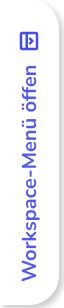
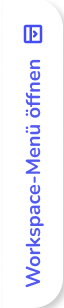
fixed workspace menu open

Changed region(s): [[0.2812, 0.0584, 0.6875, 0.9351], [0.0625, 0.0584, 1.0, 1.0], [0.875, 0.0292, 0.9062, 0.0584]]

diff --git a/src/app/main/main-content/main-content.component.ts b/src/app/main/main-content/main-content.component.ts
@@ -50,7 +50,6 @@ ngOnInit() {
     const isMobileLandscape = result.breakpoints[this.CUSTOM_BREAKPOINTS.isMobileLandscape];
     const isTabletPortrait = result.breakpoints[this.CUSTOM_BREAKPOINTS.isTabletPortrait];
     const isTabletLandscape = result.breakpoints[this.CUSTOM_BREAKPOINTS.isTabletLandscape];
-    const isWeb = result.breakpoints[this.CUSTOM_BREAKPOINTS.isWeb];
 
     if (isMobilePortrait) {
       this.toggleService.isMobile = true;

diff --git a/src/app/main/main-content/message-box/channel-message/channel-message.component.scss b/src/app/main/main-content/message-box/channel-message/channel-message.component.scss
@@ -143,6 +143,7 @@ h1 {
     background-color: $chatBoxSender;
     border-radius: 1.875rem; /* hier die Abrundung */
 
+
     .sender-message-box {
       background-color: $white;
       /* optional: Abrunden auch der inneren Bubble */
@@ -405,8 +406,12 @@ h1 {
   .message-box {
     min-width: 310px;
   }
-
   .header {
     padding: 1.5625rem 1.5rem 1.625rem 0.5rem;
   }
+  .avatar-chat-img {
+    height: 3.5rem;
+    width: 3.5rem;
+  }
 }
+

diff --git a/src/app/main/main-content/message-box/direct-message/direct-message.component.scss b/src/app/main/main-content/message-box/direct-message/direct-message.component.scss
@@ -68,6 +68,7 @@
   flex: 1;
   overflow-y: auto;
   height: 100%;
+  padding: 2rem 0;
 }
 
 .date-container {
@@ -271,5 +272,12 @@
 @media only screen and (max-width: 450px) {
   .own-chat {
     margin: 0 1rem 0 1.8125rem;
+  }
+}
+
+@media only screen and (max-width: 375px) {
+  .avatar-chat-img {
+    height: 3.5rem;
+    width: 3.5rem;
   }
 }

diff --git a/src/app/main/main-content/main-content.component.html b/src/app/main/main-content/main-content.component.html
@@ -32,7 +32,6 @@
       <!-- rechte Spalte (Threads) – jetzt nur noch, wenn gewünscht -->
       <app-sidebar-thread
         class="sidebar-container"
-        *ngIf="dataService.sidebarThreadIsVisible"
       >
       </app-sidebar-thread>
     </div>
